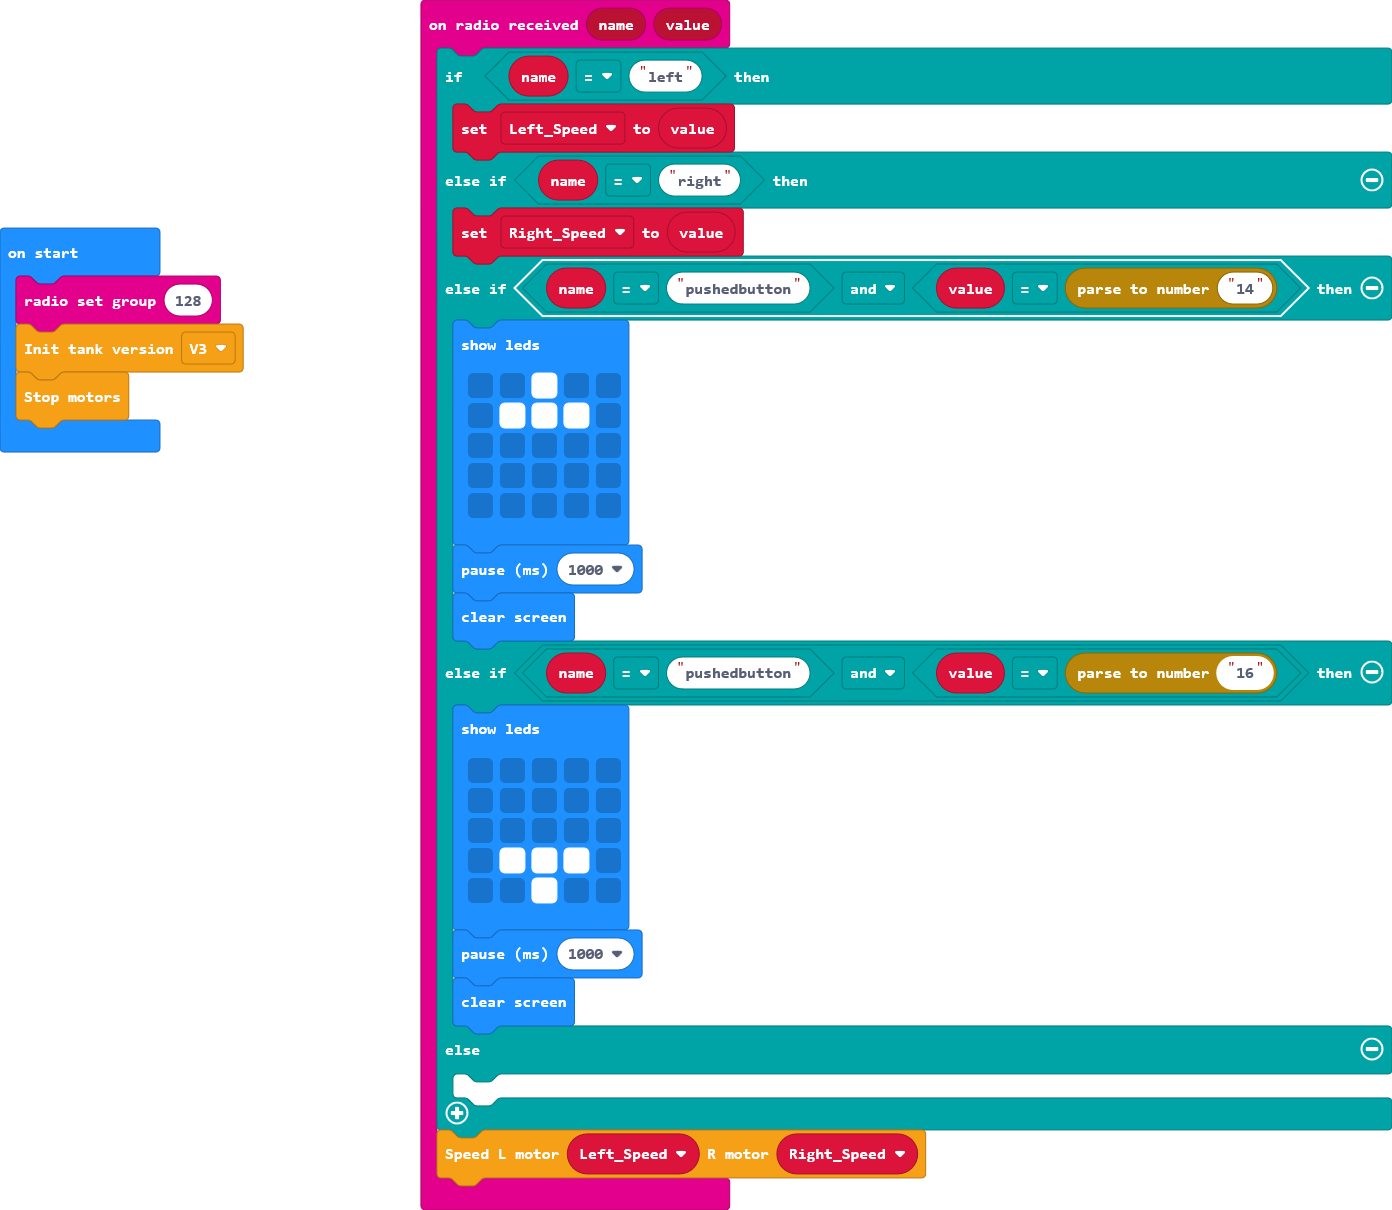
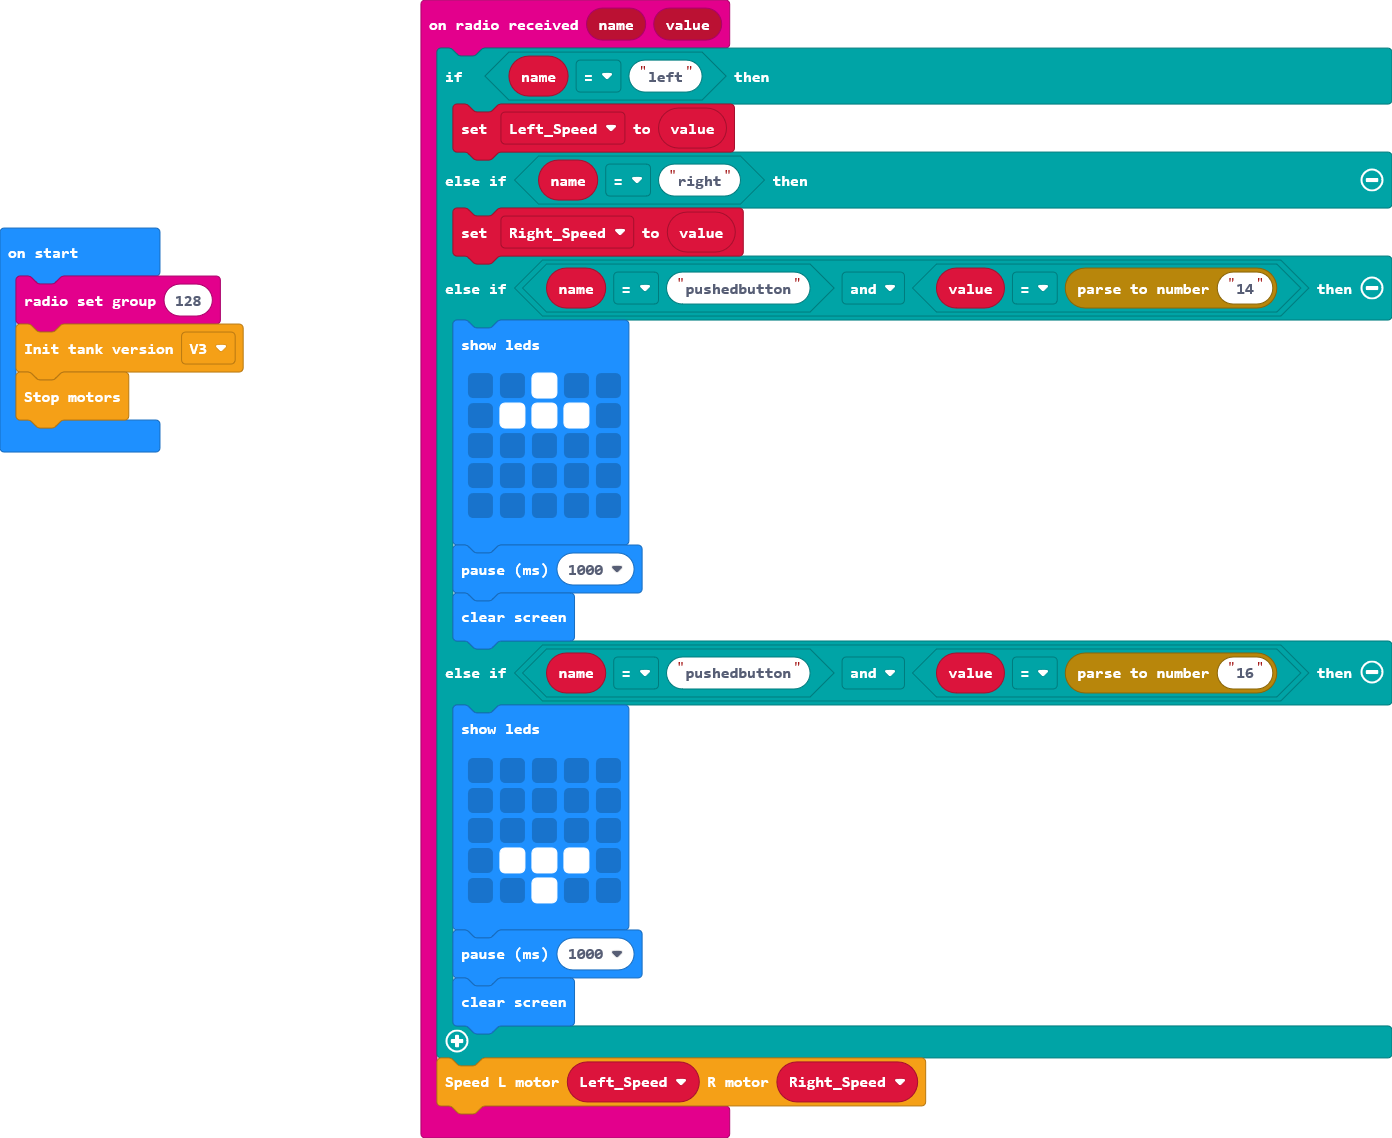
Update main.blocks, main.ts

Changed region(s): [[0.3089, 0.4306, 1.0, 0.9842], [0.3089, 0.0, 1.0, 0.3998], [0.0, 0.1845, 0.1853, 0.3998]]

diff --git a/main.ts b/main.ts
@@ -23,8 +23,6 @@ radio.onReceivedValue(function (name, value) {
             `)
         basic.pause(1000)
         basic.clearScreen()
-    } else {
-    	
     }
     OMG_Tank.Set_Speed(Left_Speed, Right_Speed)
 })
